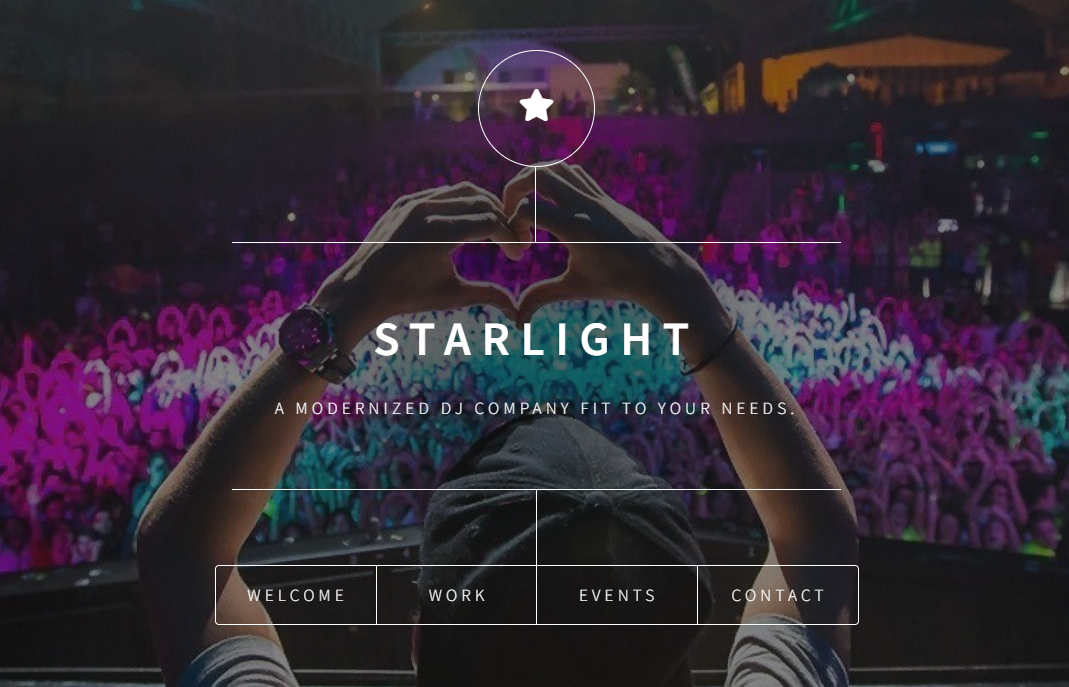
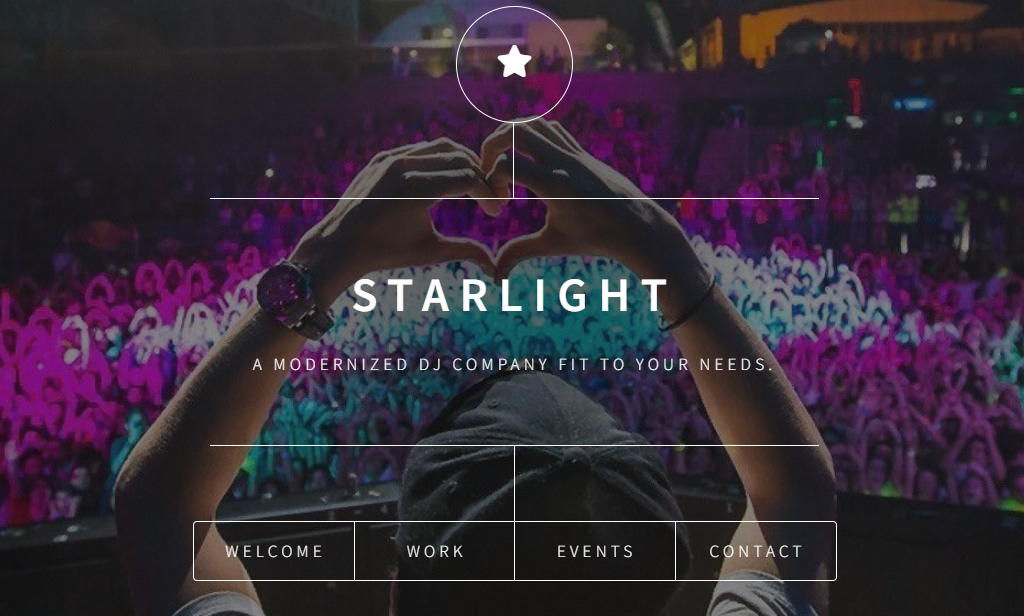
Linked Diner Site

diff --git a/index.html b/index.html
@@ -39,16 +39,16 @@
 						<h2>Recent Work</h2>
 						<div class="row">
 							<article class="col-6 col-12-xsmall work-item">
-								<a href="images/fulls/01-new.jpg" class="image fit thumb"><img src="images/fulls/01-new.jpg" alt="" /></a>
-								<h3>Magna sed consequat tempus</h3>
-								<p>Lorem ipsum dolor sit amet nisl sed nullam feugiat.</p>
+								<a href="images/fulls/01-new.png" class="image fit thumb"><img src="images/fulls/01-new.png" alt="" /></a>
+								<h3>Starlight DJ Services</h3>
+								<p>A sleek, responsive website for a modern DJ company.</p>
 								<a href="http://starlightdj.netlify.app" class="button primary small" target="_blank">Live Site</a>
 							</article>
 							<article class="col-6 col-12-xsmall work-item">
-								<a href="images/fulls/02.jpg" class="image fit thumb"><img src="images/thumbs/02.jpg" alt="" /></a>
-								<h3>Ultricies lacinia interdum</h3>
-								<p>Lorem ipsum dolor sit amet nisl sed nullam feugiat.</p>
-								<a href="#" class="button primary small" target="_blank">Live Site</a>
+								<a href="images/fulls/02-new.jpg" class="image fit thumb"><img src="images/fulls/02-new.jpg" alt="" /></a>
+								<h3>Ron's Family Diner</h3>
+								<p>A minimalistic design for a small, family-owned diner.</p>
+								<a href="http://ronsdiner.netlify.app" class="button primary small" target="_blank">Live Site</a>
 							</article>
 							<!-- <article class="col-6 col-12-xsmall work-item">
 								<a href="images/fulls/03.jpg" class="image fit thumb"><img src="images/thumbs/03.jpg" alt="" /></a>
